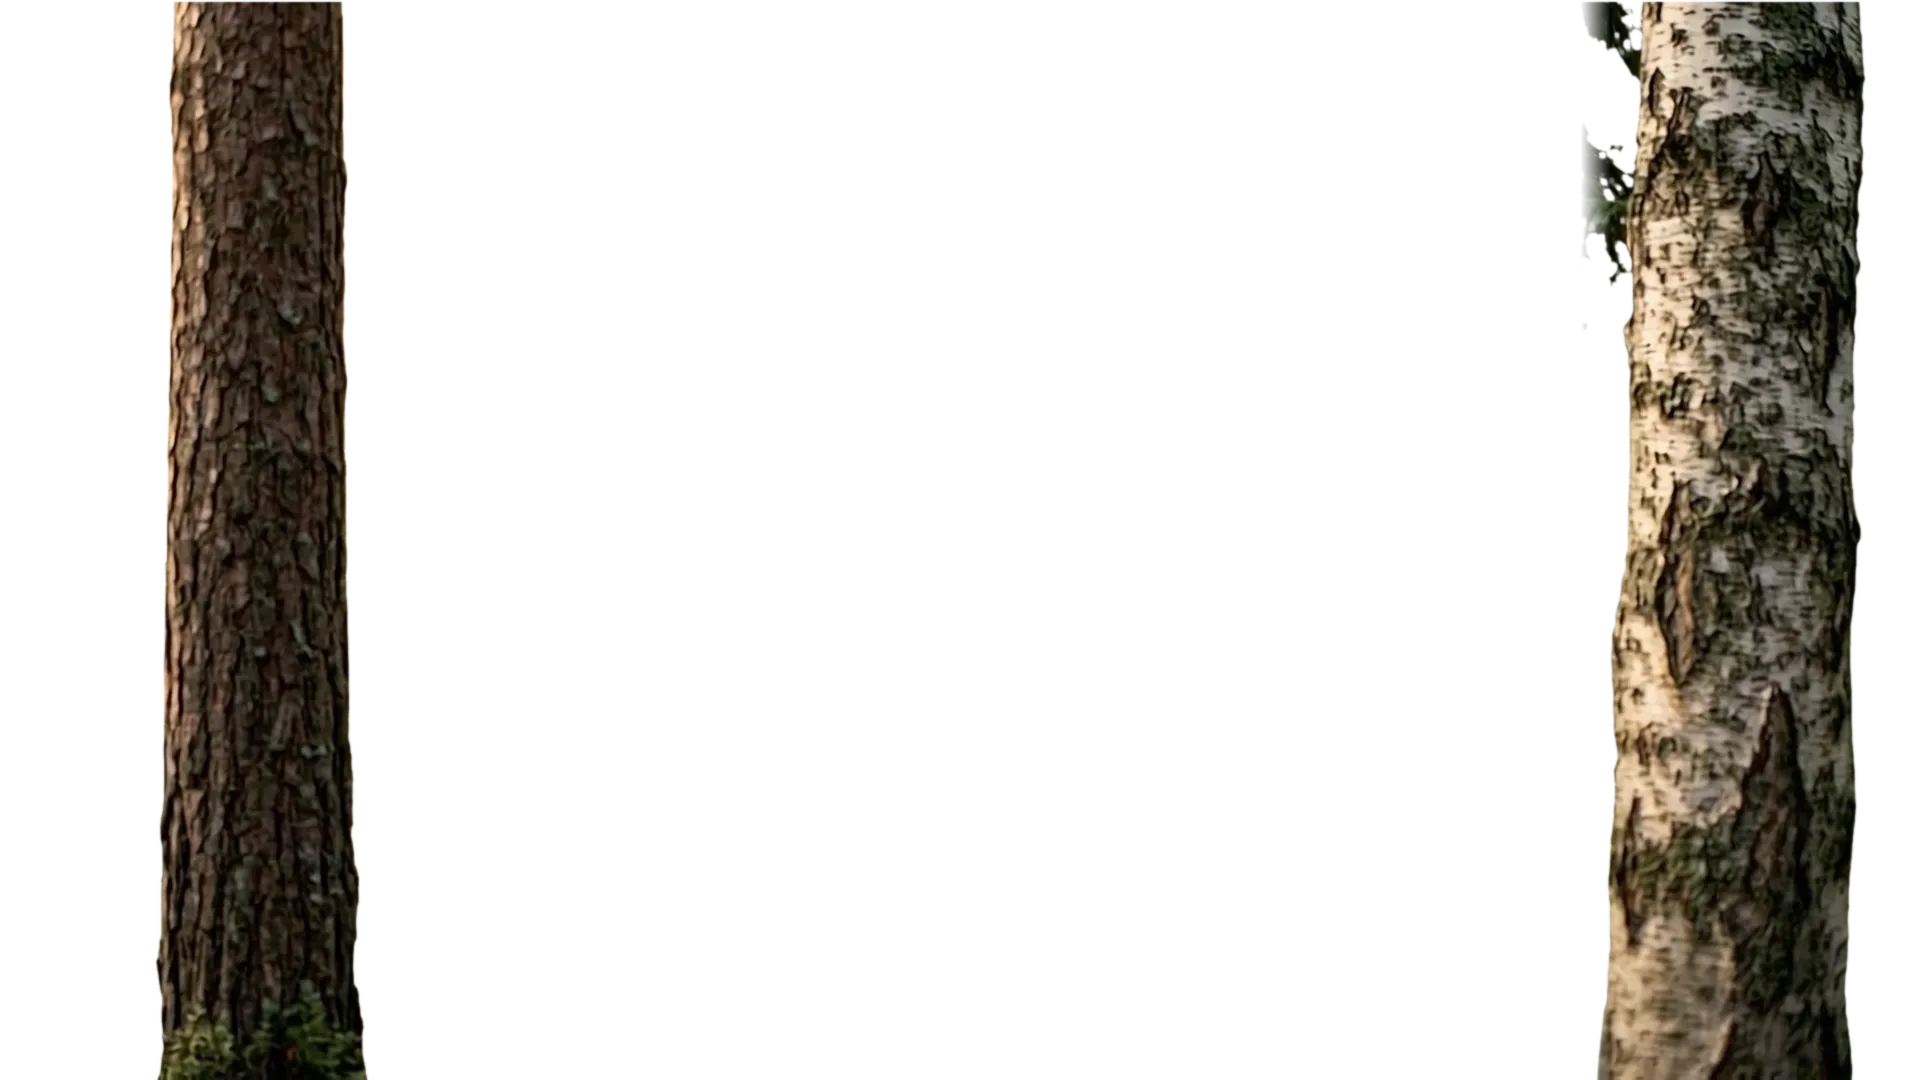
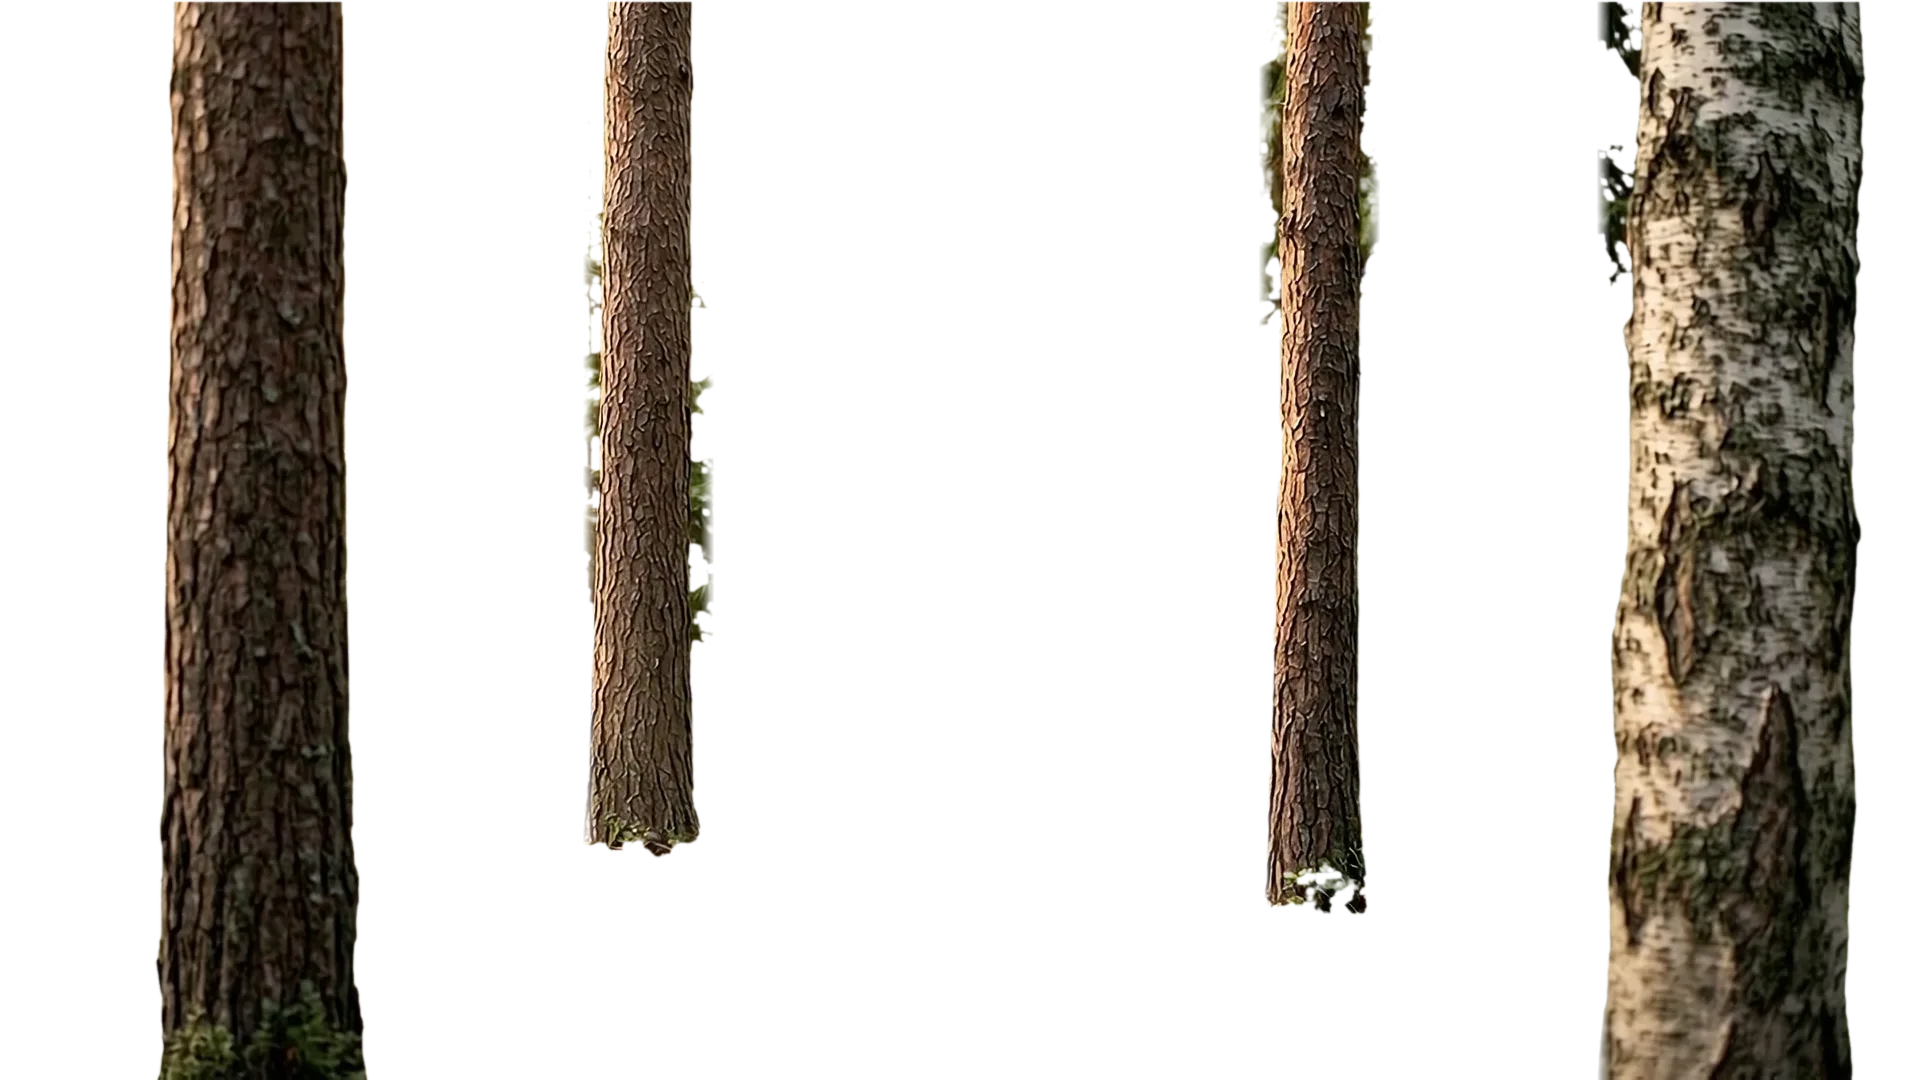
Hero: put the headline inside the forest
Four thick near trunks now pass in front of the letters, with a soft cast
shadow and stronger parallax so letters slide behind trunks as the cursor
moves; thin distant trees stay behind the text. Portrait crop shifted so
the near pine frames the headline on phones.

Claude-Session: https://claude.ai/code/session_011Sog6kMYxp3yJ5Qwk8MQNR

diff --git a/redesign/index.html b/redesign/index.html
@@ -111,6 +111,9 @@ button{font:inherit;color:inherit;text-transform:inherit;letter-spacing:inherit}
 .j-layer{position:absolute;inset:-3%;will-change:transform}
 .j-bg{z-index:1}
 .j-front{z-index:4;pointer-events:none}
+/* тень ближних стволов на заголовке: солнце слева, тень падает вправо */
+.j-shadow{z-index:3;pointer-events:none;opacity:.38}
+.j-shadow img{filter:brightness(0) blur(16px)}
 /* подлесок поверх текста: тот же кадр, видна только нижняя часть — заголовок уходит в кусты */
 .j-floor{z-index:3;pointer-events:none;-webkit-mask-image:linear-gradient(180deg, transparent 60%, #000 74%);mask-image:linear-gradient(180deg, transparent 60%, #000 74%)}
 .j-rays{position:absolute;inset:0;z-index:2;pointer-events:none;mix-blend-mode:screen;opacity:.55;
@@ -126,7 +129,7 @@ button{font:inherit;color:inherit;text-transform:inherit;letter-spacing:inherit}
 .j-text{position:absolute;left:0;right:0;top:27%;z-index:3;display:flex;flex-direction:column;align-items:center;text-align:center;padding:0 20px;will-change:transform,opacity}
 .j-kicker{color:#f6ead7;letter-spacing:.26em;margin-bottom:calc(22*var(--t));text-shadow:0 1px 12px rgba(0,0,0,.5)}
 .j-h1{margin:0;color:#fff;line-height:.94;font-weight:400;text-shadow:0 6px 40px rgba(20,24,10,.45)}
-.j-h1 span{display:block;font-size:clamp(46px, 7.6vw, 128px)}
+.j-h1 span{display:block;font-size:clamp(50px, 8.6vw, 144px)}
 .j-h1 .l1{font-family:'Playfair Display',Georgia,serif;font-style:italic;letter-spacing:-.04em}
 .j-h1 .l2{font-family:var(--body);letter-spacing:-.065em;margin-top:-.03em}
 .j-veil{position:absolute;inset:0;z-index:5;pointer-events:none;
@@ -443,6 +446,8 @@ dialog.project[open]{animation:dlgIn .5s var(--e-mask)}
   .facts{grid-template-columns:1fr 1fr}
   .facts div:nth-child(3){grid-column:1/-1;border-left:0;padding-left:0;border-top:1px solid var(--line)}
 }
+/* портрет: сдвигаем кадр леса, чтобы ближняя сосна прошла сквозь заголовок */
+@media (max-aspect-ratio:3/4){ .j-forest img{object-position:45% 50%} }
 @media (max-height:620px) and (min-width:601px){ .j-l,.j-r p{display:none} .b-cap p{display:none} }
 
 @media (prefers-reduced-motion:reduce){
@@ -501,6 +506,7 @@ dialog.project[open]{animation:dlgIn .5s var(--e-mask)}
               <span class="l2 ha ha-reveal" style="animation-delay:.55s">вокруг вашей жизни</span>
             </h1>
           </div>
+          <div class="j-layer j-shadow" id="jShadow" aria-hidden="true"><img src="media/trunks.webp" alt=""></div>
           <div class="j-layer j-floor" id="jFloor" aria-hidden="true"><img src="media/forest.jpg" alt=""></div>
           <div class="j-layer j-front" id="jFront" aria-hidden="true"><img src="media/trunks.webp" alt=""></div>
         </div>
@@ -783,7 +789,7 @@ dialog.project[open]{animation:dlgIn .5s var(--e-mask)}
      ПУТЬ: лес → поворот на поляну → стройка (видео по прокрутке) → чертёж
      ===================================================================== */
   (function(){
-  var sec = $("#top"), pin = $("#jPin"), pan = $("#jPan"), bgL = $("#jBg"), floorL = $("#jFloor"), front = $("#jFront"), txt = $("#jText");
+  var sec = $("#top"), pin = $("#jPin"), pan = $("#jPan"), bgL = $("#jBg"), floorL = $("#jFloor"), shadowL = $("#jShadow"), front = $("#jFront"), txt = $("#jText");
   var jL = $("#jL"), jR = $("#jR"), jCue = $("#jCue"), vwrap = $("#jVideo"), hud = $("#jHud"), endEl = $("#jEnd"), endShade = $("#jEndShade");
   var vids = $$("#jVideo video"), finalImg = $("#jVideo .j-final"), reveal = $("#reveal"), spot = $("#spot"), nav = $("#nav");
   var phaseLis = $$("#bPhases li");
@@ -864,8 +870,10 @@ dialog.project[open]{animation:dlgIn .5s var(--e-mask)}
     if (!reduce) { var k = performance.now() - lastMove < 4000 ? 1 : 0; par.x += ((mouse.x / W - .5) * k - par.x) * .05; par.y += ((mouse.y / H - .5) * k - par.y) * .05; }
     bgL.style.transform = "translate3d(" + (-par.x * 10).toFixed(1) + "px," + (-par.y * 6).toFixed(1) + "px,0) scale(" + (1 + tq * .04).toFixed(4) + ")";
     floorL.style.transform = bgL.style.transform;
-    front.style.transform = "translate3d(" + (-par.x * 34 - pq * W * .45).toFixed(1) + "px," + (-par.y * 14).toFixed(1) + "px,0) scale(" + (1 + tq * .09).toFixed(4) + ")";
-    txt.style.transform = "translate3d(" + (-par.x * 18).toFixed(1) + "px," + (tq * H * .42 - par.y * 8).toFixed(1) + "px,0)";
+    var fx = -par.x * 64 - pq * W * .45, fy = -par.y * 22, fs = 1 + tq * .09;
+    front.style.transform = "translate3d(" + fx.toFixed(1) + "px," + fy.toFixed(1) + "px,0) scale(" + fs.toFixed(4) + ")";
+    shadowL.style.transform = "translate3d(" + (fx + 26).toFixed(1) + "px," + fy.toFixed(1) + "px,0) scale(" + fs.toFixed(4) + ")";
+    txt.style.transform = "translate3d(" + (-par.x * 22).toFixed(1) + "px," + (tq * H * .42 - par.y * 8).toFixed(1) + "px,0)";
     txt.style.opacity = (1 - seg(tq, .8, 1)).toFixed(3);
     var side = 1 - seg(tq, 0, .35);
     jL.style.opacity = jR.style.opacity = jCue.style.opacity = side.toFixed(3);

diff --git a/redesign/README.md b/redesign/README.md
@@ -2,7 +2,7 @@
 
 Главная страница в виде одного непрерывного прохода по прокрутке:
 
-1. **Лес.** Первый экран — густой лес (`media/forest.jpg`). Заголовок стоит между стволами: крайние сосна и берёза (`media/trunks.webp`, вырезаны по зелёному фону из `img-00-les-front`) лежат поверх текста. За курсором слои сдвигаются с разной скоростью, в лучах летит пыль.
+1. **Лес.** Первый экран — густой лес (`media/forest.jpg`). Заголовок стоит внутри леса: четыре толстых ближних ствола (`media/trunks.webp`, вырезаны по зелёному фону из `img-00-les-front`) проходят перед буквами и бросают на них мягкую тень, тонкие дальние деревья остаются за текстом. За курсором слои сдвигаются с разной скоростью, в лучах летит пыль.
 2. **Заголовок уходит в подлесок.** При прокрутке текст медленно опускается за кусты: нижняя часть того же кадра лежит поверх текста.
 3. **Поворот на поляну.** Лес уезжает влево, ближние стволы — быстрее фона. Поляна (`media/clearing.jpg` — первый кадр стройки) выезжает справа с растушёвкой и лёгким смазом движения.
 4. **Стройка.** Шесть видео (`media/build-1…6.mp4`) проигрываются прокруткой вперёд и назад. Сверху подписи этапов, номер этапа и готовность. Ролики склеены с переходом 0,25 с. Первый грузится сразу, остальные по очереди.
